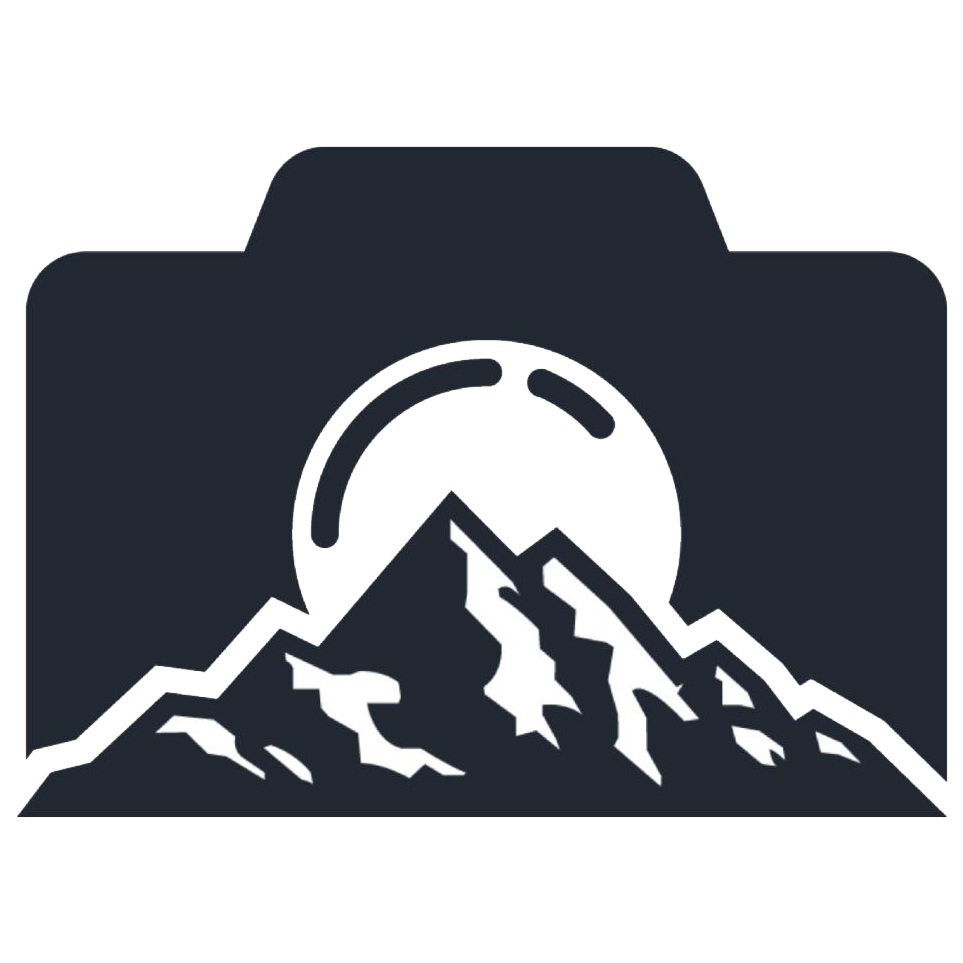
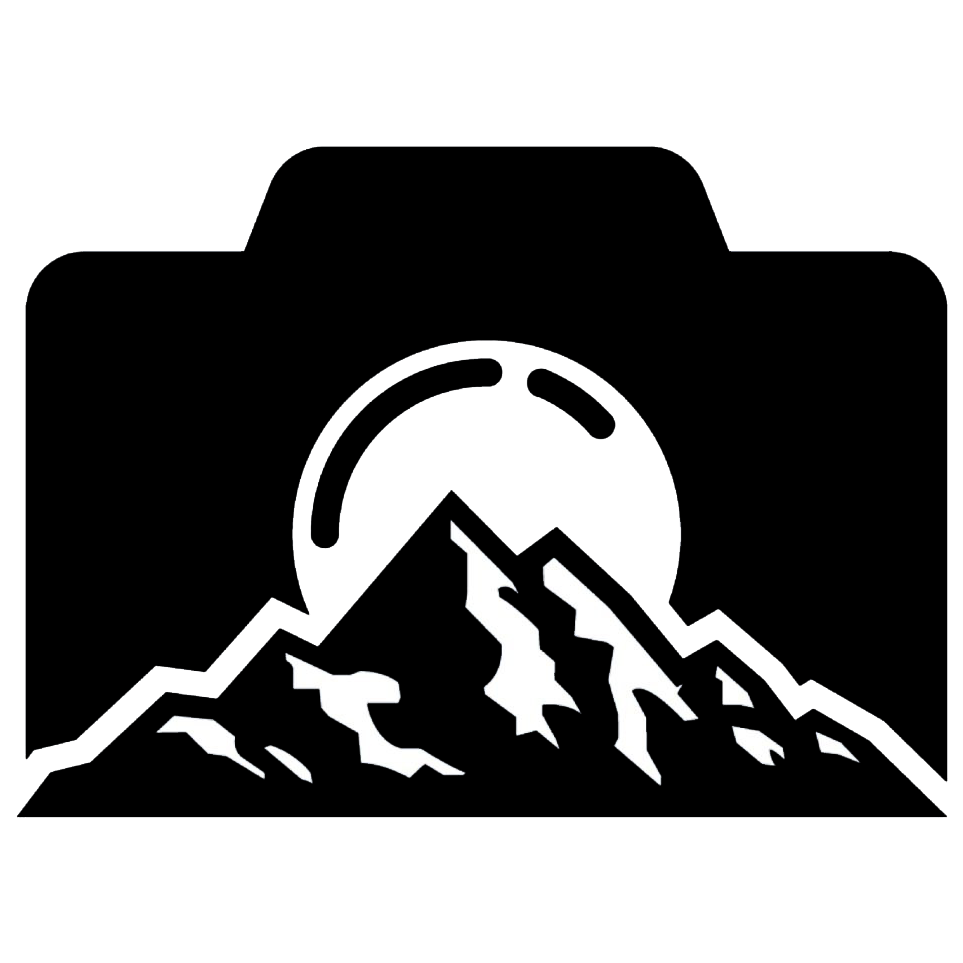
small change to dropdown options styling. Color fix to an SVG.

diff --git a/style.css b/style.css
@@ -95,7 +95,7 @@ p {
 
 button{
     font-family: system-ui, -apple-system, BlinkMacSystemFont, 'Segoe UI', Roboto, Oxygen, Ubuntu, Cantarell, 'Open Sans', 'Helvetica Neue', sans-serif;
-    letter-spacing:: 1px;
+    letter-spacing: 1px;
 }
 
 .menu-button{
@@ -131,12 +131,12 @@ button{
 
 .dropdown p{
     margin-bottom: 10px;
-    padding:5px 0px;
+    padding: 7px 0px;
 
     background-color: rgb(255, 255, 255);
     color: #242D2A;
 
-    border-radius: 25px;
+    border-radius: 5px;
 
     text-align: center;
     font-size: 16px;
@@ -1447,13 +1447,13 @@ button{
     
     .dropdown p{
         
-        margin-bottom: 10px;
-        padding:5px 0px;
+        margin-bottom: 7px;
+        padding: 7px 0px;
     
         background-color: rgb(255, 255, 255);
         color: #242D2A;
     
-        border-radius: 25px;
+        border-radius: 3px;
     
         text-align: center;
         font-size: 12px;
